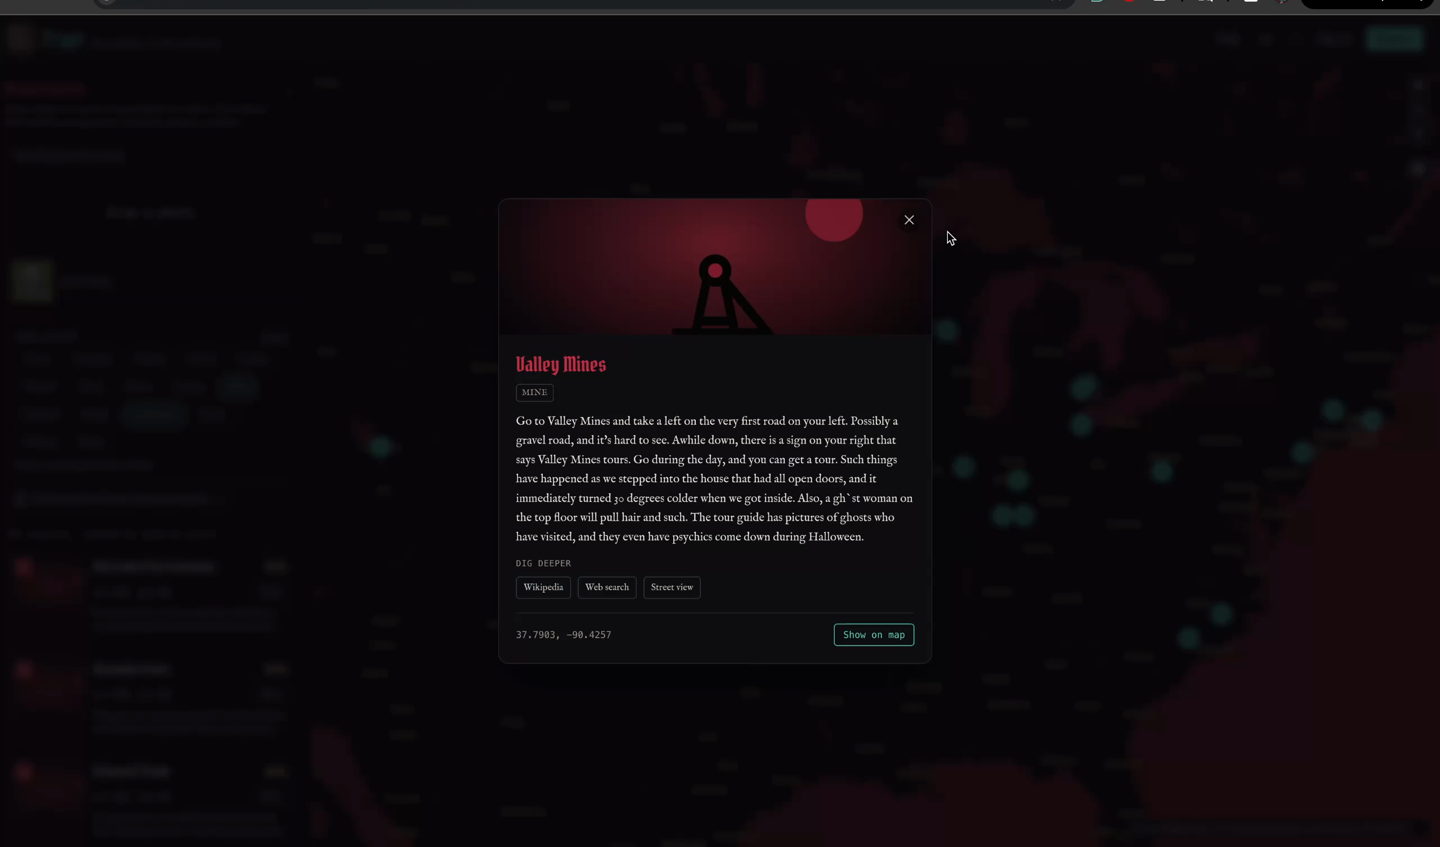
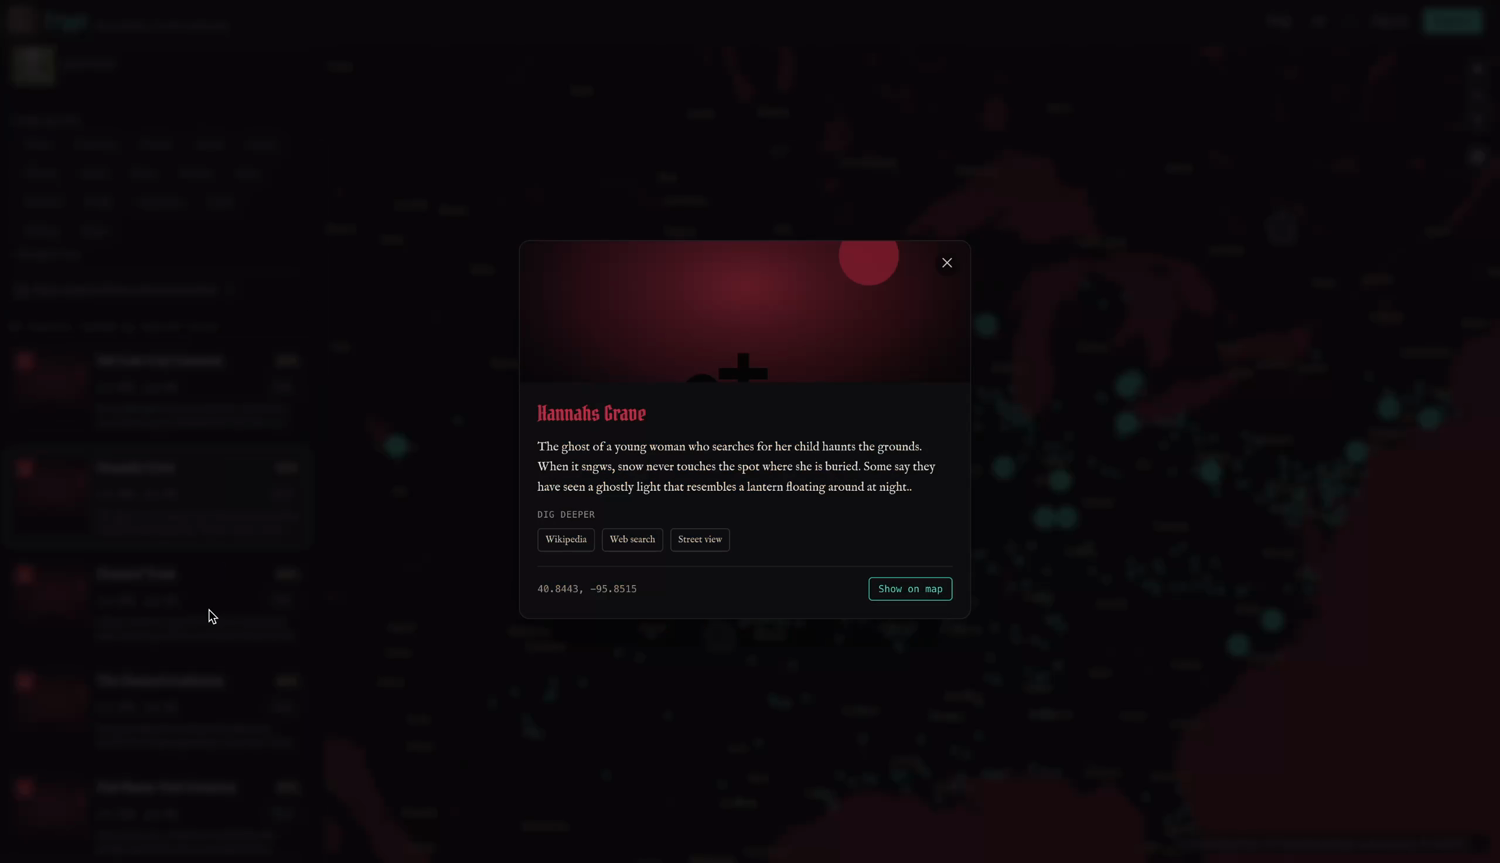
Refresh demo gif + screenshots to show the Ask agent
Replace the hero gif and screenshots with frames from a live recording of the
'Ask the Crypt' agent: a question returns grounded cited places listed in the
sidebar and pinned on the map. Browser chrome cropped; captions updated.

diff --git a/README.md b/README.md
@@ -14,7 +14,7 @@ country, ranked by visual similarity, distance, and lore.
 
 <br />
 
-<img src="docs/images/demo.gif" alt="Crypt demo: drop a photo, get ranked haunted places on the map" width="840" />
+<img src="docs/images/demo.gif" alt="Crypt demo: ask a question and get cited haunted places pinned on the map" width="840" />
 
 </div>
 
@@ -60,15 +60,15 @@ Rust**. The pieces:
 
 ## Screenshots
 
-<img src="docs/images/app-search.png" alt="Visual search results" width="100%" />
+<img src="docs/images/app-search.png" alt="Ask the Crypt: cited places in the sidebar, pinned on the map" width="100%" />
 
-Drop a photo and Crypt returns ranked matches: numbered pins on the map and
-scored results in the sidebar.
+Ask the Crypt a question and the agent answers with cited places: listed in the
+sidebar and pinned on the map (here, haunted cemeteries across Illinois).
 
 | | |
 |:--|:--|
-| <img src="docs/images/app-detail.png" alt="Location detail panel" /> | <img src="docs/images/app-map.png" alt="Full-bleed haunted map" /> |
-| Every place opens a detail card with a category illustration, the recorded haunting, and links to dig deeper. | Collapse the panel for a map |
+| <img src="docs/images/app-detail.png" alt="Location detail panel" /> | <img src="docs/images/app-map.png" alt="The Ask box beside the full haunted map" /> |
+| Every place opens a detail card with a category illustration, the recorded haunting, and links to dig deeper. | The Ask box and visual search sit beside the full haunted-places map. |
 
 ## Highlights
 

diff --git a/agent/README.md b/agent/README.md
@@ -6,6 +6,8 @@ retrieval stack with a tool-using planner and a faithfulness eval harness, so
 every answer is grounded in retrieved evidence and the whole pipeline is
 measured, not vibes.
 
+<img src="../docs/images/demo.gif" alt="Ask the Crypt: a question returns cited places pinned on the map" width="840" />
+
 ## What it does
 
 ```
